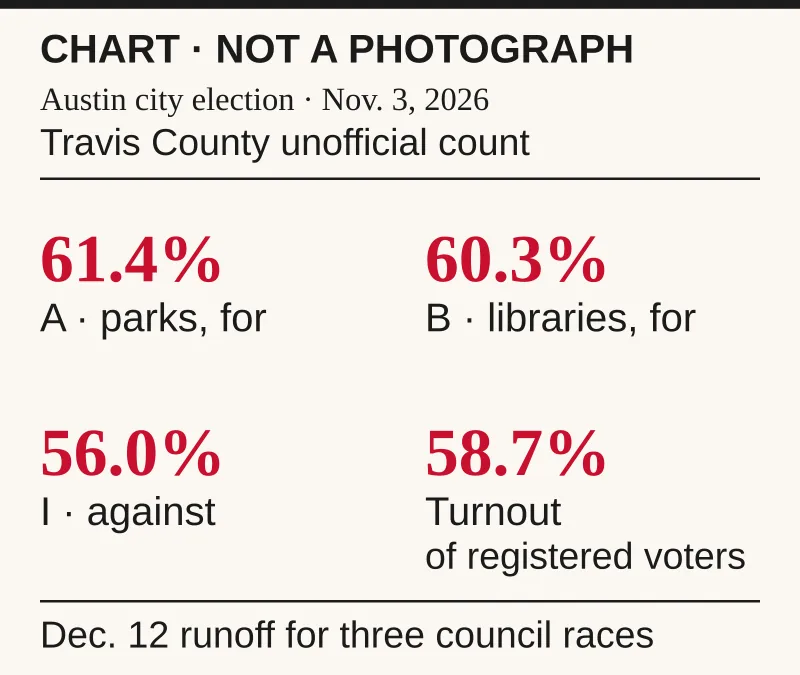
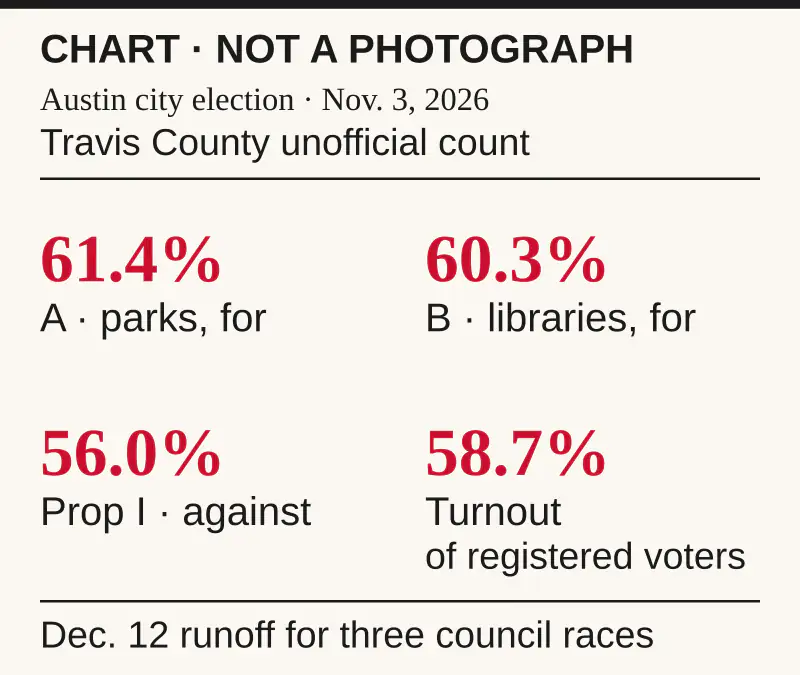
Label Prop I on the results chart and drop the repeated lead chrome.
The Nov. 4 chart names the measure, the homepage keeps one Source line on a shared baseline, and the mobile dateline no longer strands the previous day's date.

Changed region(s): [[0.0625, 0.7156, 0.4062, 0.8089]]

diff --git a/src/css/front-cover.css b/src/css/front-cover.css
@@ -53,6 +53,7 @@
   padding: 0;
 }
 .cover-chrome .front-masthead .masthead-dateline a { color: #1b1b1b; }
+.cover-chrome .front-masthead .prev-edition { white-space: nowrap; }
 .masthead-inner {
   max-width: 1120px;
   margin: 0 auto;
@@ -220,12 +221,24 @@
   text-transform: none;
   white-space: normal;
 }
+.home-front .src.front-sources {
+  display: flex;
+  flex-wrap: nowrap;
+  align-items: baseline;
+  column-gap: 0;
+}
 .home-front .front-sources a {
-  display: inline-block;
+  display: block;
+  flex: 1 1 auto;
+  min-width: 0;
   max-width: 100%;
   min-height: 44px;
+  margin: 0;
+  padding: 0;
   overflow-wrap: anywhere;
-  vertical-align: middle;
+  line-height: inherit;
+  vertical-align: baseline;
+  background: transparent;
   color: #1b1b1b;
 }
 .home-front .lead-photo { margin: 0 0 14px; }

diff --git a/src/bulletins/2026-11-04.md b/src/bulletins/2026-11-04.md
@@ -26,16 +26,15 @@ images:
 ## The Briefing
 
 {% bigstory %}
-### Austin approves parks and library bonds; three council races head to Dec. 12 runoffs.
+### Parks and library bonds lead; three council races head to Dec. 12 runoffs.
 
 <!-- desk:kicker Election -->
-<!-- desk:figure 61.4% -->
 
-Both city bond measures are passing comfortably in Travis County's unofficial count. Proposition A, $260 million for parks, has 61.4% of the vote (211,842 for, 132,911 against), and Proposition B, $35 million for libraries, has 60.3% (207,036 to 136,142).
+Both city bond measures lead in Travis County's unofficial count. Proposition A, $260 million for parks, has 61.4% of the vote (211,842 for, 132,911 against), and Proposition B, $35 million for libraries, has 60.3% (207,036 to 136,142).
 
-Proposition I, the citizen-led charter amendment that would have required an independent affordability and efficiency review, is failing with 56.0% against. Of the seven charter amendments the city placed on the ballot, five are passing: C (redistricting commission independence, 68.5%), F (campaign finance limits set each Jan. 1, 74.3%), G (petition elections moved to November of even-numbered years, 63.7%), H (council, not the city manager, hires and fires the city attorney, 65.5%) and J (cleanup of outdated charter language, 72.3%). Two are failing: D, which would have dropped the rule that council meet weekly (64.0% against), and E, which would have dropped the rule that council set its procedures by ordinance (72.2% against). Axios Austin and Community Impact report the bonds approved and Prop I rejected. Percentages are full-purpose city voters; limited-purpose voters, who vote only on C through J, went the same way on every measure except I, which they backed 58.5%.
+Against leads on Proposition I, the citizen-led charter amendment that would require an independent affordability and efficiency review, with 56.0% against. Of the seven charter amendments the city placed on the ballot, for leads on five: C (redistricting commission independence, 68.5%), F (campaign finance limits set each Jan. 1, 74.3%), G (petition elections moved to November of even-numbered years, 63.7%), H (council, not the city manager, hires and fires the city attorney, 65.5%) and J (cleanup of outdated charter language, 72.3%). Against leads on two: D, which would drop the rule that council meet weekly (64.0% against), and E, which would drop the rule that council set its procedures by ordinance (72.2% against). Axios Austin and Community Impact report these same unofficial figures. Percentages are full-purpose city voters; limited-purpose voters, who vote only on C through J, went the same way on every measure except I, which they backed 58.5%.
 
-<p class="if-you">These totals are Travis County's unofficial count. <a href="https://results.enr.clarityelections.com/TX/Travis/127492/">Travis County unofficial results</a></p>
+<p class="if-you">These totals are Travis County's unofficial count.</p>
 
 <p class="whats-next"><strong>What's next:</strong> Runoff day for the races still short of a majority is Dec. 12.</p>
 <p class="source-line">Sources: <a href="https://results.enr.clarityelections.com/TX/Travis/127492/">Travis County unofficial results</a> · <a href="https://www.axios.com/local/austin/2026/11/04/austin-2026-city-council-election-results">Axios Austin</a> · <a href="https://communityimpact.com/northwest-austin/election/austin-voters-reject-charter-amendment-for-3rd-party-audits/">Community Impact</a></p>
@@ -46,8 +45,8 @@ Proposition I, the citizen-led charter amendment that would have required an ind
 {% river %}
 #### Money & bills
 
-##### Pflugerville Independent School District (ISD) voters reject joining ACC's taxing district
-Austin Community College's Proposition A, which would have annexed the parts of Pflugerville ISD not already in ACC's district and added ACC's tax there, is failing about 63% to 37%. In the Travis County part of the vote it trails 16,105 to 27,550. Annexation would have given those students ACC's in-district tuition. The ACC board canvasses results Nov. 12.
+##### Against leads on Pflugerville Independent School District (ISD) joining ACC's taxing district
+Austin Community College's Proposition A, which would annex the parts of Pflugerville ISD not already in ACC's district and add ACC's tax there, trails about 63% to 37%. In the Travis County part of the vote it trails 16,105 to 27,550. Annexation would give those students ACC's in-district tuition. The ACC board canvasses results Nov. 12.
 <span class="src"><a href="https://results.enr.clarityelections.com/TX/Travis/127492/">Travis County unofficial results</a> · <a href="https://communityimpact.com/pflugerville-hutto/election/majority-of-pflugerville-isd-voters-oppose-acc-annexation-early-voting-shows/">Community Impact</a> · <a href="https://offices.austincc.edu/community-and-government-affairs/acc-board-of-trustees-elections/november-3-2026-election-results/">ACC results page</a> · <a href="https://www.statesman.com/news/education/article/austin-community-college-election-pflugerville-isd-22494935.php">Austin American-Statesman</a></span>
 
 #### Growth & infrastructure
@@ -61,7 +60,7 @@ Among 34 numbered items, it will consider letting Austin Energy issue up to $695
 #### City Hall & county
 
 ##### Three of five Austin council races head to a Dec. 12 runoff
-A council candidate needs more than half the vote to win outright, and only two did. In District 9, incumbent Zohaib "Zo" Qadri won with 51.4% (20,905 votes) over Rich Heyman (24.7%) and Katie Kam (17.5%). In District 8, Selena Xie won the open seat with 64.4% over Jeffery Bowen.
+A council candidate needs more than half the vote, and only two lead. In District 9, incumbent Zohaib "Zo" Qadri leads with 51.4% (20,905 votes) over Rich Heyman (24.7%) and Katie Kam (17.5%). In District 8, Selena Xie leads in the open seat with 64.4% over Jeffery Bowen.
 <p class="if-you">District 1, an open seat, is the closest race on the ballot: Amber Goodwin (10,170 votes, 34.3%) and Misael Ramos (10,097, 34.1%) are separated by 73 votes and head to a runoff. In District 3, incumbent José Velásquez (47.4%) faces Neha Shah (24.7%), and in District 5, incumbent Ryan Alter (47.8%) faces David Weinberg (26.2%). Axios Austin and KUT report the runoff is Dec. 12.</p>
 <span class="src"><a href="https://results.enr.clarityelections.com/TX/Travis/127492/">Travis County unofficial results</a> · <a href="https://www.axios.com/local/austin/2026/11/04/austin-2026-city-council-election-results">Axios Austin</a> · <a href="https://www.kut.org/politics/2026-11-03/austin-tx-district-1-city-council-election-results-2026">KUT, District 1</a></span>
 
@@ -72,8 +71,8 @@ The county's preliminary count shows 557,129 voters, 58.7% of its 948,575 regist
 
 #### Schools
 
-##### Austin Independent School District (AISD)'s at-large seat goes to a runoff separated by 74 votes; three newcomers win seats
-Pamela Mathai (86,660 votes, 42.9%) and Cynthia Soliz (86,586, 42.8%) lead the three-way race for Austin ISD's At-Large Position 9, with Kirk Becker at 14.3%. Neither cleared 50%, so the two meet again Dec. 12, Austin Current reports. In the single-member races, incumbent Candace Hunter kept District 1 (56.9%), and newcomers Jessica Neufeld (District 4, 57.6%), Sarah Dille (District 6, 58.6%) and Laurie Solis (District 7, 59.8%) won.
+##### Austin Independent School District (AISD)'s at-large seat goes to a runoff separated by 74 votes; three newcomers lead
+Pamela Mathai (86,660 votes, 42.9%) and Cynthia Soliz (86,586, 42.8%) lead the three-way race for Austin ISD's At-Large Position 9, with Kirk Becker at 14.3%. Neither cleared 50%, so the two meet again Dec. 12, Austin Current reports. In the single-member races, incumbent Candace Hunter leads District 1 (56.9%), and newcomers Jessica Neufeld (District 4, 57.6%), Sarah Dille (District 6, 58.6%) and Laurie Solis (District 7, 59.8%) lead.
 <p class="if-you">Hunter was the only trustee seeking re-election, Community Impact reports, so at least four new trustees join a board facing possible state intervention over Burnet and Webb middle schools' fifth straight failing ratings.</p>
 <span class="src"><a href="https://results.enr.clarityelections.com/TX/Travis/127492/">Travis County unofficial results</a> · <a href="https://austincurrent.org/2026/11/03/austin-austinisd-district9-election-trustee/">Austin Current</a> · <a href="https://communityimpact.com/central-austin/election/early-results-austin-isd-trustee-races-take-shape-one-could-head-to-runoff/">Community Impact</a></span>
 {% endriver %}
